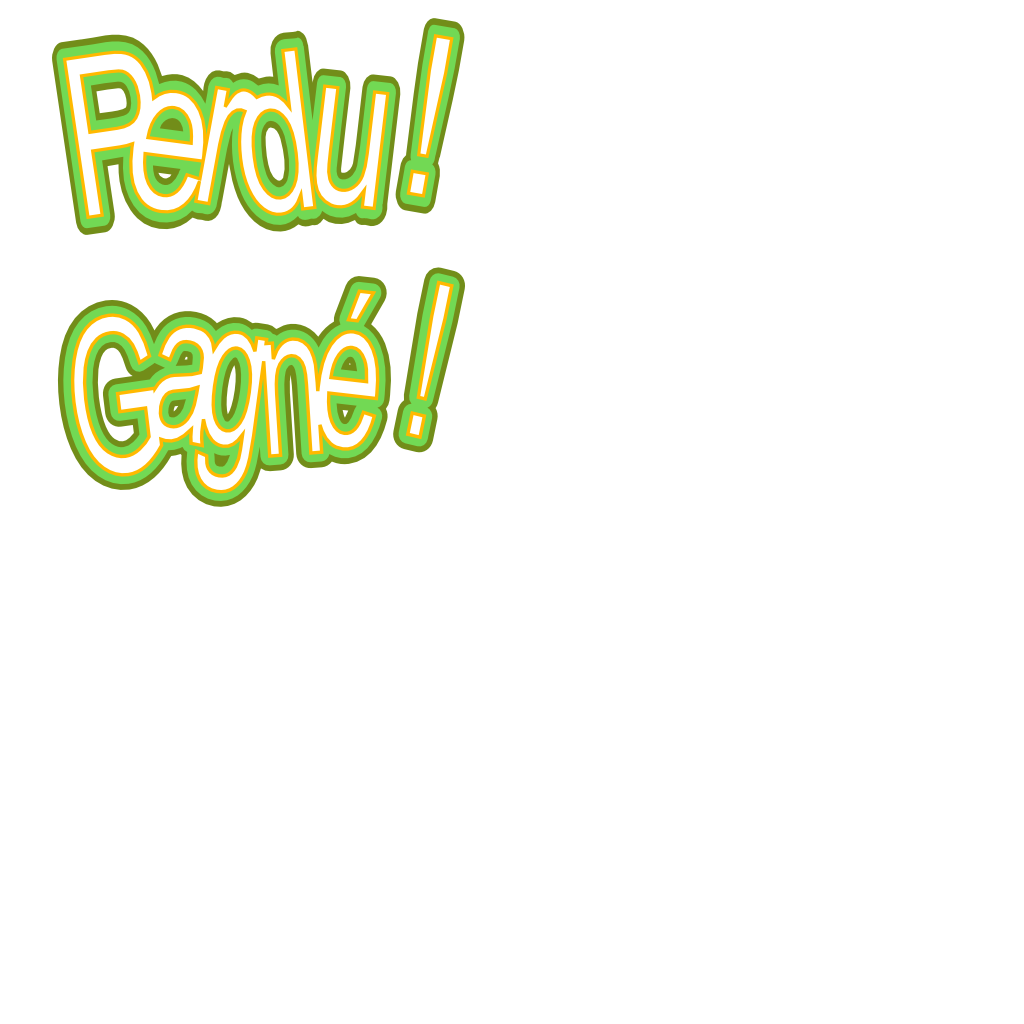
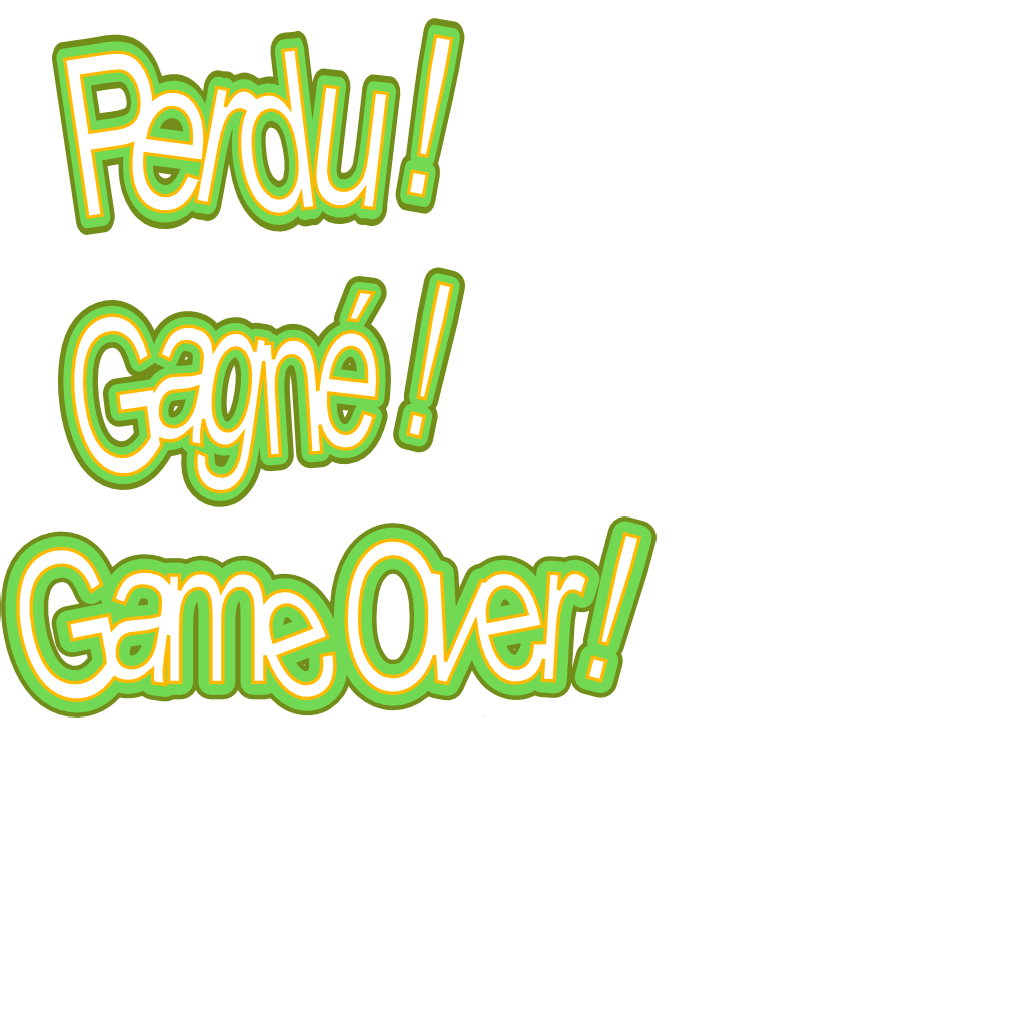
Ajout message gameover + MaJ du packer

Changed region(s): [[0.0, 0.5, 0.6562, 0.7188]]

diff --git a/puyopuyo-android/src/com/tacoid/puyopuyo/actors/GameOverActor.java b/puyopuyo-android/src/com/tacoid/puyopuyo/actors/GameOverActor.java
@@ -59,6 +59,7 @@ public class GameOverActor extends Group {
 	
 	private Sprite winSprite;
 	private Sprite loseSprite;
+	private Sprite gameOverSprite;
 	private GameScreen gameScreen;
 	private SwingMenu menu;
 	private GameOverType type;
@@ -70,6 +71,7 @@ public class GameOverActor extends Group {
 		TextureRegion rejouerRegion = PuyoPuyo.getInstance().atlasPlank.findRegion("rejouer-fr");
 		winSprite = new Sprite(PuyoPuyo.getInstance().atlasMessages.findRegion("gagne-fr"));
 		loseSprite = new Sprite(PuyoPuyo.getInstance().atlasMessages.findRegion("perdu-fr"));
+		gameOverSprite = new Sprite(PuyoPuyo.getInstance().atlasMessages.findRegion("gameover"));
 		
 		menu = new SwingMenu(gs.getOrientation());
 		menu.initBegin();
@@ -81,6 +83,7 @@ public class GameOverActor extends Group {
 		
 		winSprite.setPosition(x-winSprite.getWidth()/2, y-winSprite.getHeight()/2);
 		loseSprite.setPosition(x-loseSprite.getWidth()/2, y-loseSprite.getHeight()/2);
+		gameOverSprite.setPosition(x-loseSprite.getWidth()/2 - 64, y-loseSprite.getHeight()/2);
 		
 		gameScreen = gs;
 		this.type = GameOverType.GAMEOVER;
@@ -104,7 +107,7 @@ public class GameOverActor extends Group {
 		super.draw(batch,arg1);
 		switch(type) {
 		case GAMEOVER:
-			winSprite.draw(batch);
+			gameOverSprite.draw(batch);
 			break;
 		case LOSE:
 			loseSprite.draw(batch);

diff --git a/puyopuyo-desktop/src/Packer.java b/puyopuyo-desktop/src/Packer.java
@@ -9,5 +9,7 @@ public class Packer {
         TexturePacker2.process("images/menu/plank-fr", "images/menu/plank-fr", "pages");
         TexturePacker2.process("images/panels/landscape", "images/panels/landscape", "pages");
         TexturePacker2.process("images/panels/portrait", "images/panels/portrait", "pages");
+        TexturePacker2.process("images/messages/fr", "images/messages/fr", "pages");
+        TexturePacker2.process("images/bouttons", "images/bouttons", "pages");
     }
 }
